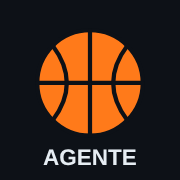
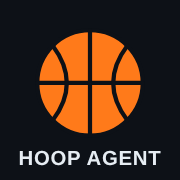
Il gioco si chiama Hoop Agent: titolo, app, icone, salvataggi e statistiche
Claude-Session: https://claude.ai/code/session_018ccaXNSv1UsvTwcYpB1XA4

Changed region(s): [[0.0833, 0.8056, 0.9167, 0.9444]]

diff --git a/game.js b/game.js
@@ -1,4 +1,4 @@
-/* Super Agente NBA — gioco manageriale: sei un procuratore sportivo nel basket americano.
+/* Hoop Agent — gioco manageriale: sei un procuratore sportivo nel basket americano.
    Squadre e giocatori sono inventati. Tutto gira nel browser, salvataggio in localStorage. */
 'use strict';
 
@@ -335,7 +335,7 @@ function openFeedback() {
   window.open(FEEDBACK_URL + (FEEDBACK_URL.includes('?') ? '&' : '?') + q, '_blank', 'noopener');
 }
 // esporta: un file da tenere (o un codice da copiare) con tutta la partita
-function saveFileName() { return `super-agente-nba-${(S.agency || 'partita').toLowerCase().replace(/[^a-z0-9]+/g, '-')}-${S.season}.json`; }
+function saveFileName() { return `hoop-agent-${(S.agency || 'partita').toLowerCase().replace(/[^a-z0-9]+/g, '-')}-${S.season}.json`; }
 async function exportSave() {
   save(); S.lastExport = S.season; save();
   // dentro la chat di Claude non si possono scaricare file: lì si usa il codice
@@ -344,7 +344,7 @@ async function exportSave() {
   track('salvataggio-esportato');
   try {
     const file = new File([text], name, { type: 'application/json' });
-    if (navigator.canShare && navigator.canShare({ files: [file] })) { await navigator.share({ files: [file], title: 'Salvataggio Super Agente NBA' }); return { msg: 'Salvataggio pronto: tienilo in un posto sicuro (File, Drive, una mail a te stesso).', type: 'good' }; }
+    if (navigator.canShare && navigator.canShare({ files: [file] })) { await navigator.share({ files: [file], title: 'Salvataggio Hoop Agent' }); return { msg: 'Salvataggio pronto: tienilo in un posto sicuro (File, Drive, una mail a te stesso).', type: 'good' }; }
   } catch (e) { if (e && e.name === 'AbortError') return { msg: 'Esportazione annullata.', type: 'info' }; }
   const a = document.createElement('a');
   a.href = URL.createObjectURL(new Blob([text], { type: 'application/json' })); a.download = name;
@@ -2390,7 +2390,7 @@ const UI = {
     const has = hasLocalSave();
     return `<div class="start">
       <div class="start-hero">${heroSVG(null)}</div>
-      <h1>Super <span>Agente</span> NBA</h1>
+      <h1>Hoop <span>Agent</span></h1>
       <p>Un telefono, due clienti e trecentomila dollari per arrivare in cima alla NBA.</p>
       ${UI.installHint()}
       <form onsubmit="event.preventDefault(); UI.start(this)">
@@ -2430,7 +2430,7 @@ const UI = {
   importCode() { this.importText(document.getElementById('imp-code').value); },
   async importText(text) {
     const obj = await readSave(text), err = document.getElementById('imp-err');
-    if (!obj) { if (err) { err.hidden = false; err.textContent = 'Questo non sembra un salvataggio di Super Agente NBA. Controlla di aver copiato tutto il codice.'; } return; }
+    if (!obj) { if (err) { err.hidden = false; err.textContent = 'Questo non sembra un salvataggio di Hoop Agent. Controlla di aver copiato tutto il codice.'; } return; }
     const r = applyImport(obj); this.closeModal(); toast(r.msg, r.type, r.type === 'good' ? 'Partita caricata' : undefined);
   },
   start(f) { track('nuova-partita'); newGame(f.agency.value.trim(), f.agent.value.trim()); this.tab = 'home'; this.render(); window.scrollTo(0, 0); setTimeout(() => Tutorial.start(), 400); },

diff --git a/index.html b/index.html
@@ -4,12 +4,12 @@
   <meta charset="utf-8">
   <meta name="viewport" content="width=device-width, initial-scale=1, maximum-scale=1, user-scalable=no, viewport-fit=cover">
   <meta name="theme-color" content="#0d1117">
-  <title>Super Agente NBA</title>
+  <title>Hoop Agent</title>
   <meta name="description" content="Gioco manageriale: guida un'agenzia di procuratori nel basket americano.">
   <meta name="mobile-web-app-capable" content="yes">
   <meta name="apple-mobile-web-app-capable" content="yes">
   <meta name="apple-mobile-web-app-status-bar-style" content="black-translucent">
-  <meta name="apple-mobile-web-app-title" content="Agente NBA">
+  <meta name="apple-mobile-web-app-title" content="Hoop Agent">
   <link rel="apple-touch-icon" href="icons/icon-180.png">
   <link rel="icon" href="icons/icon.svg">
   <link rel="manifest" href="manifest.webmanifest">
@@ -37,7 +37,7 @@
   <script src="art.js"></script>
   <script src="game.js"></script>
   <!-- Statistiche anonime senza cookie (GoatCounter): quante persone aprono il gioco e quante ci tornano -->
-  <script data-goatcounter="https://agente-nba.goatcounter.com/count" async src="https://gc.zgo.at/count.js"></script>
+  <script data-goatcounter="https://hoop-agent.goatcounter.com/count" async src="https://gc.zgo.at/count.js"></script>
   <script>trackVisit();</script>
   <script>
     // App installabile: il service worker salva il gioco sul telefono per usarlo anche offline

diff --git a/sw.js b/sw.js
@@ -1,9 +1,9 @@
-/* Super Agente NBA — service worker: rende il gioco installabile e giocabile anche offline.
+/* Hoop Agent — service worker: rende il gioco installabile e giocabile anche offline.
    Strategia "prima la rete": con internet si usano sempre i file aggiornati,
    senza internet si gioca con la copia salvata sul telefono. */
 'use strict';
 
-const CACHE = 'agente-nba-v29';
+const CACHE = 'hoop-agent-v30';
 const APP = [
   './', './index.html', './style.css', './manifest.webmanifest',
   './names.js', './nations.js', './events.js', './events_extra.js', './traits.js', './tuning.js', './records_data.js', './art.js', './game.js',

diff --git a/nations.js b/nations.js
@@ -1,4 +1,4 @@
-/* Super Agente NBA — nazionalità dei giocatori.
+/* Hoop Agent — nazionalità dei giocatori.
    Ogni paese ha i suoi nomi, i posti dove si cresce e qualche riga che richiama le origini nella storia del giocatore.
    w = quanto è frequente tra i giocatori inventati (gli Stati Uniti sono la grande maggioranza, come nella NBA vera). */
 'use strict';

diff --git a/tuning.js b/tuning.js
@@ -1,4 +1,4 @@
-/* Super Agente NBA — regolazioni degli imprevisti.
+/* Hoop Agent — regolazioni degli imprevisti.
    cond: livello minimo (ovr) o massimo (max) del giocatore perché l'imprevisto abbia senso per la sua carriera.
    ch: per ogni scelta (indice da 0)
      ask: chi deve accettare la richiesta → 'player' (il tuo cliente), 'team' (la sua squadra),

diff --git a/events.js b/events.js
@@ -1,4 +1,4 @@
-/* Super Agente NBA — imprevisti settimanali.
+/* Hoop Agent — imprevisti settimanali.
    Segnaposto nel testo: {P} il tuo cliente, {T} la sua squadra, {C} un personaggio famoso,
    {B} uno sponsor, {R} un'agenzia rivale, {N} un altro giocatore.
    Effetti (fx): cash (in migliaia di $), rep, mor (morale), hype, ovr, inj (settimane ferme),

diff --git a/names.js b/names.js
@@ -1,4 +1,4 @@
-/* Super Agente NBA — nomi parodia. Tutto è caricatura: squadre, sponsor, star e personaggi famosi
+/* Hoop Agent — nomi parodia. Tutto è caricatura: squadre, sponsor, star e personaggi famosi
    sono storpiati apposta. Rose basate sulla stagione 2025-26 (possono esserci scambi recenti mancanti). */
 'use strict';
 

diff --git a/traits.js b/traits.js
@@ -1,4 +1,4 @@
-/* Super Agente NBA — carattere e storia dei giocatori.
+/* Hoop Agent — carattere e storia dei giocatori.
    Ogni giocatore ha 1 o 2 tratti. I tratti:
    - rendono più probabili (boost) o meno probabili (dampen) certi imprevisti;
    - sbloccano imprevisti tutti loro (campo "trait" negli eventi qui sotto);

diff --git a/events_extra.js b/events_extra.js
@@ -1,4 +1,4 @@
-/* Super Agente NBA — imprevisti speciali.
+/* Hoop Agent — imprevisti speciali.
    rare: true    → capitano raramente, ma possono cambiare una carriera (in bene o in male).
    college: true → solo per i prospetti al college, prima del Draft.
    {TD} = una squadra NBA che segue il prospetto. */

diff --git a/art.js b/art.js
@@ -1,4 +1,4 @@
-/* Super Agente NBA — grafica: aspetto dei giocatori, avatar e illustrazione della Home (SVG). */
+/* Hoop Agent — grafica: aspetto dei giocatori, avatar e illustrazione della Home (SVG). */
 'use strict';
 
 const SKINS = ['#f1c7a0', '#e0ac7e', '#c68642', '#a0662f', '#7a4a2a', '#5c3920'];

diff --git a/records_data.js b/records_data.js
@@ -1,4 +1,4 @@
-/* Super Agente NBA — record reali della NBA (fino alla stagione 2024-25), con i nomi storpiati del gioco.
+/* Hoop Agent — record reali della NBA (fino alla stagione 2024-25), con i nomi storpiati del gioco.
    I valori sono quelli reali, arrotondati dove serve. */
 'use strict';
 

diff --git a/README.md b/README.md
@@ -1,4 +1,4 @@
-# 🏀 Super Agente NBA
+# 🏀 Hoop Agent
 
 Gioco manageriale: sei un **procuratore sportivo** in una NBA parodia. Squadre, star, sponsor e personaggi famosi hanno nomi storpiati (LeBonno James, Los Angeles Fakers, Naik…); gli altri giocatori sono inventati.
 
